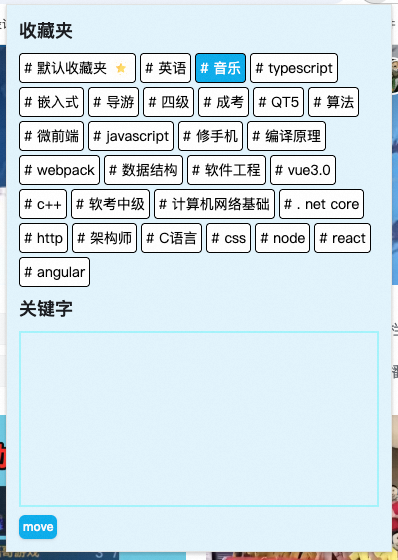
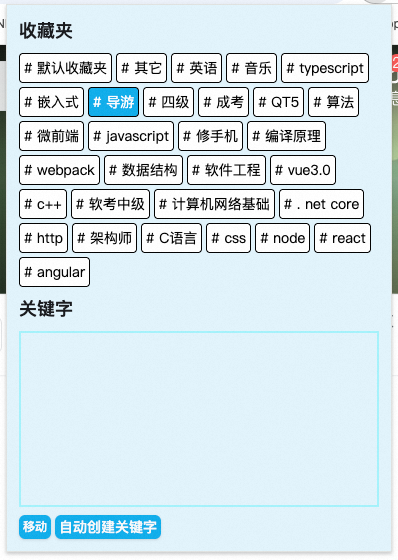
chore: update README with AI keyword creation section

diff --git a/README.md b/README.md
@@ -11,7 +11,12 @@
 3. 给其它收藏夹输入关键字
 4. 点击move进行自动移动
 
+## 使用Ai创建关键字
+
+![](readme/product-option.png)
+
 ## Doing
 
 - [x] 接入ai自动解析关键字
 - [x] 输入关键字后自动整理收藏夹
+
